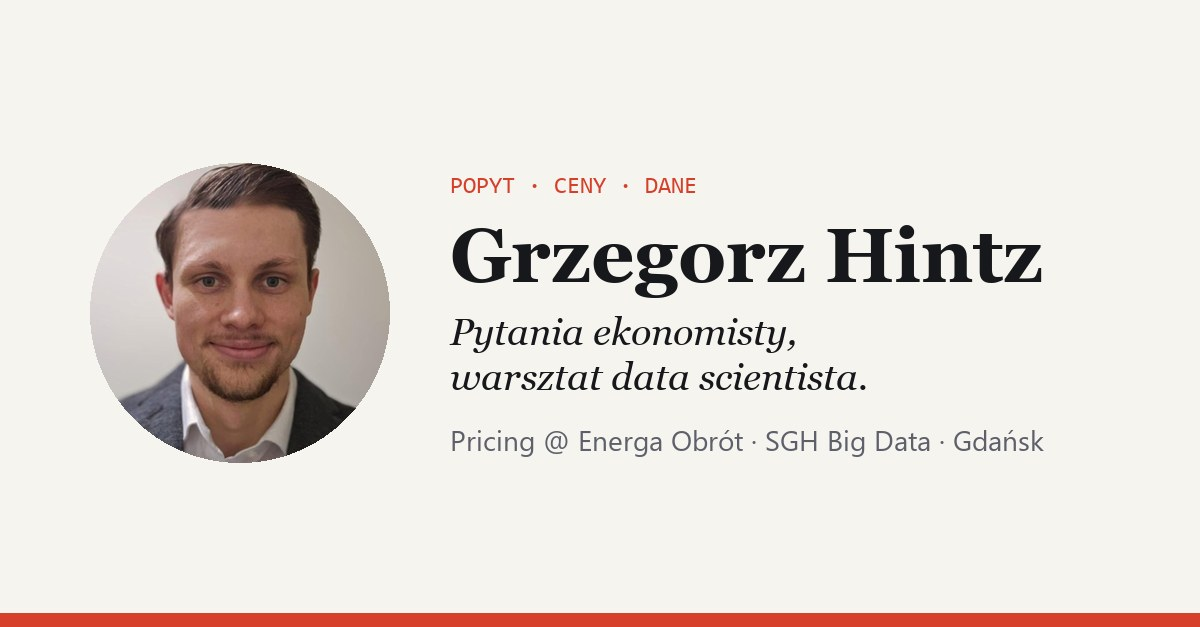
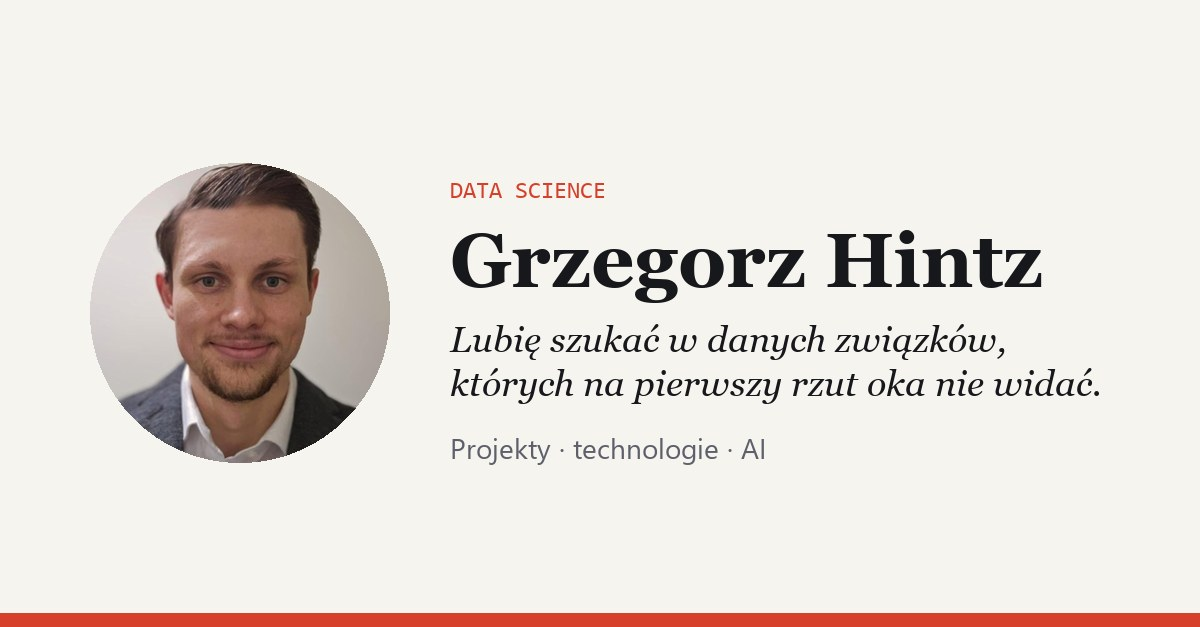
Luźniejszy ton bez kariery, poprawki po detektorze tekstu AI

diff --git a/index.html b/index.html
@@ -3,11 +3,11 @@
 <head>
 <meta charset="utf-8">
 <meta name="viewport" content="width=device-width, initial-scale=1">
-<title>Grzegorz Hintz · popyt, ceny i dane</title>
-<meta name="description" content="Grzegorz Hintz – system pricingowy w Energa Obrót, data science i inżynieria danych (SGH). Buduje działające aplikacje: model zapełnienia SKM, monitor cen energii z TGE, hybrydowy system rekomendacji filmów.">
+<title>Grzegorz Hintz · data science</title>
+<meta name="description" content="Grzegorz Hintz – data science. Moje projekty: model zapełnienia SKM, monitor cen energii z TGE i system rekomendacji filmów. Do tego technologie, których używam.">
 <meta property="og:type" content="profile">
-<meta property="og:title" content="Grzegorz Hintz – pytania ekonomisty, warsztat data scientista">
-<meta property="og:description" content="Czy usiądę w porannym SKM? Kiedy kontrakt na energię dojdzie do mojej ceny? Co obejrzeć wieczorem? Cztery pytania, cztery działające aplikacje.">
+<meta property="og:title" content="Grzegorz Hintz · data science">
+<meta property="og:description" content="Lubię szukać w danych związków, których na pierwszy rzut oka nie widać. Kilka moich projektów i narzędzia, z których korzystam.">
 <meta property="og:url" content="https://astyu27.github.io/STRONA_O_MNIE/">
 <meta property="og:image" content="https://astyu27.github.io/STRONA_O_MNIE/assets/og.jpg">
 <meta name="twitter:card" content="summary_large_image">
@@ -62,9 +62,6 @@ h1{font:650 clamp(42px,7vw,64px)/1.02 var(--serif);letter-spacing:-.02em;margin:
 .btn:hover{border-color:var(--ink)}
 .btn.primary{background:var(--ink);color:var(--bg);border-color:var(--ink)}
 .btn svg{width:17px;height:17px;flex:none}
-.qchips{display:flex;flex-wrap:wrap;gap:8px;margin:22px 0 0;padding:0;list-style:none}
-.qchips a{display:inline-block;text-decoration:none;font:italic 500 16px/1.2 var(--serif);padding:8px 14px;border-radius:999px;background:var(--accent-soft);color:var(--ink);border:1px solid transparent}
-.qchips a:hover{border-color:var(--accent)}
 
 /* sections */
 section{margin-bottom:72px}
@@ -95,25 +92,14 @@ h2{font:650 30px/1.15 var(--serif);margin:0 0 8px;letter-spacing:-.01em}
 .proj.small{padding:22px 24px}
 .proj.small .question{font-size:21px;margin-bottom:10px}
 
-/* timeline */
-.timeline{list-style:none;margin:0;padding:0;position:relative}
-.timeline::before{content:"";position:absolute;left:118px;top:8px;bottom:8px;width:2px;background:var(--line)}
-.timeline li{display:grid;grid-template-columns:100px 1fr;gap:36px;padding:0 0 26px;position:relative}
-.timeline li::before{content:"";position:absolute;left:113px;top:7px;width:12px;height:12px;border-radius:50%;background:var(--bg);border:2px solid var(--muted)}
-.timeline li.now::before{background:var(--accent);border-color:var(--accent)}
-.when{font:500 13px/1.6 var(--mono);color:var(--muted);text-align:right;padding-top:1px}
-.timeline h3{font:600 17px/1.35 var(--sans);margin:0 0 2px}
-.timeline p{margin:0;color:var(--muted);max-width:62ch}
-
-/* how I work */
-.how{background:var(--accent-soft);border-radius:16px;padding:26px 28px;margin-bottom:24px}
-.how p{margin:0;font:500 clamp(18px,2.3vw,21px)/1.45 var(--serif);max-width:62ch}
+/* tools */
 .cols{display:grid;grid-template-columns:1.2fr 1fr;gap:16px}
 .box{background:var(--surface);border:1px solid var(--line);border-radius:14px;padding:22px}
 .box h3{margin:0 0 14px;font:500 12px var(--mono);text-transform:uppercase;letter-spacing:.06em;color:var(--accent)}
 .tools{margin:0;display:grid;grid-template-columns:auto 1fr;gap:8px 16px;font-size:15px}
 .tools dt{color:var(--muted);font-size:14px}
 .tools dd{margin:0}
+.boxp{margin:0 0 14px;font-size:15px}
 .certs{list-style:none;margin:0;padding:0}
 .certs li{padding:10px 0;border-top:1px solid var(--line);font-size:15px;line-height:1.4}
 .certs li:first-child{border-top:0;padding-top:0}
@@ -132,12 +118,7 @@ footer{color:var(--muted);font-size:13px;text-align:center;padding:28px 0 40px}
   .avatar{width:116px;height:116px;margin-top:0}
   .proj{padding:22px 18px}
   .cols{grid-template-columns:1fr}
-  .timeline::before{left:5px}
-  .timeline li{grid-template-columns:1fr;gap:2px;padding-left:28px}
-  .timeline li::before{left:0}
-  .when{text-align:left}
   .contact{padding:32px 20px}
-  .how{padding:22px 20px}
 }
 </style>
 </head>
@@ -155,12 +136,12 @@ footer{color:var(--muted);font-size:13px;text-align:center;padding:28px 0 40px}
 <header class="hero">
   <img class="avatar" src="assets/avatar.jpg" alt="Grzegorz Hintz" width="168" height="168">
   <div>
-    <p class="eyebrow"><span lang="pl">Popyt · ceny · dane</span><span lang="en">Demand · prices · data</span></p>
+    <p class="eyebrow">Data science</p>
     <h1>Grzegorz Hintz</h1>
-    <p class="tagline"><span lang="pl">Pytania ekonomisty, warsztat data scientista.</span><span lang="en">An economist's questions, a data scientist's toolkit.</span></p>
-    <p class="lead" lang="pl">Zawodowo pracuję nad systemem pricingowym w Energa Obrót. Po godzinach buduję aplikacje, które odpowiadają na konkretne pytania: czy usiądę w porannym SKM, kiedy kontrakt na energię dojdzie do mojej ceny, co obejrzeć wieczorem. Każda z nich działa i każdą można kliknąć.</p>
-    <p class="lead" lang="en">By day I work on a pricing system at Energa Obrót, a Polish energy supplier. After hours I build apps that answer concrete questions: will I get a seat on the morning train, when will a power contract hit my price, what should I watch tonight. Every one of them runs, and you can try each one.</p>
-    <p class="meta"><span lang="pl">Specjalista, Wydział Polityki Cenowej · Energa Obrót · SGH Data Engineering – Big Data · Gdańsk</span><span lang="en">Specialist, Pricing Policy Department · Energa Obrót · SGH Data Engineering – Big Data · Gdańsk, Poland</span></p>
+    <p class="tagline"><span lang="pl">Lubię szukać w danych związków, których na pierwszy rzut oka nie widać.</span><span lang="en">I like finding patterns in data that aren't obvious at first glance.</span></p>
+    <p class="lead" lang="pl">Interesuję się data science. Niżej kilka moich projektów i narzędzia, których używam.</p>
+    <p class="lead" lang="en">I'm into data science. Below are a few of my projects and the tools I use.</p>
+    <p class="meta"><span lang="pl">Gdańsk · Energa Obrót · SGH</span><span lang="en">Gdańsk, Poland · Energa Obrót · SGH</span></p>
     <div class="cta">
       <a class="btn primary" href="https://www.linkedin.com/in/grzegorz-hintz-272727272727astyu" target="_blank" rel="noopener">
         <svg viewBox="0 0 24 24" fill="currentColor" aria-hidden="true"><path d="M20.45 20.45h-3.56v-5.57c0-1.33-.02-3.04-1.85-3.04-1.85 0-2.14 1.45-2.14 2.94v5.67H9.35V9h3.41v1.56h.05c.48-.9 1.64-1.85 3.37-1.85 3.6 0 4.27 2.37 4.27 5.46v6.28zM5.34 7.43a2.06 2.06 0 1 1 0-4.13 2.06 2.06 0 0 1 0 4.13zM7.12 20.45H3.56V9h3.56v11.45zM22.22 0H1.77C.79 0 0 .77 0 1.73v20.54C0 23.23.79 24 1.77 24h20.45c.98 0 1.78-.77 1.78-1.73V1.73C24 .77 23.2 0 22.22 0z"/></svg>LinkedIn</a>
@@ -169,45 +150,24 @@ footer{color:var(--muted);font-size:13px;text-align:center;padding:28px 0 40px}
       <a class="btn" href="mailto:grzegorz.hintz27@gmail.com">
         <svg viewBox="0 0 24 24" fill="none" stroke="currentColor" stroke-width="2" aria-hidden="true"><rect x="2" y="4" width="20" height="16" rx="2"/><path d="m2 7 10 6 10-6"/></svg>E-mail</a>
     </div>
-    <ul class="qchips">
-      <li><a href="#skm"><span lang="pl">Czy usiądę w SKM?</span><span lang="en">Will I get a seat?</span></a></li>
-      <li><a href="#tge"><span lang="pl">Kiedy cena dojdzie?</span><span lang="en">When will the price hit?</span></a></li>
-      <li><a href="#film"><span lang="pl">Co obejrzeć?</span><span lang="en">What to watch?</span></a></li>
-      <li><a href="#pcp"><span lang="pl">Gdzie taniej?</span><span lang="en">Where is it cheaper?</span></a></li>
-    </ul>
   </div>
 </header>
 
 <section id="projekty">
-  <h2><span lang="pl">Cztery pytania</span><span lang="en">Four questions</span></h2>
-  <p class="sub"><span lang="pl">Każdy projekt zaczął się od pytania, na które nie było gotowej odpowiedzi. Każdy działa na moim własnym serwerze.</span><span lang="en">Each project started with a question nobody had answered yet. Each one runs on my own home server.</span></p>
+  <h2><span lang="pl">Projekty</span><span lang="en">Projects</span></h2>
+  <p class="sub"><span lang="pl">Każdy zaczął się od pytania, na które sam chciałem znać odpowiedź. Trzy pierwsze można otworzyć i sprawdzić.</span><span lang="en">Each one started with a question I wanted answered. The first three are live, so you can try them.</span></p>
 
   <article class="proj" id="skm">
     <div class="proj-head">
       <h3>Znowu SKM</h3>
       <span class="tag"><span lang="pl">model popytu · działa</span><span lang="en">demand model · live</span></span>
     </div>
-    <p class="question"><span lang="pl">„Czy usiądę w SKM i do którego wagonu wsiąść?”</span><span lang="en">“Will I get a seat on the train, and which car should I board?”</span></p>
-    <p lang="pl">Codziennie jeżdżę SKM z Gdyni Chylonii na gdańskie Przymorze. Nikt nie publikuje, jak bardzo zapełnione są pociągi, więc policzyłem to sam. Zbudowałem od zera model popytu: kto, skąd, dokąd i o której jedzie. Skalibrowałem go na oficjalnych danych UTK za 2025 rok (50,36 mln pasażerów rocznie) i sprawdziłem z niezależnymi pomiarami z Gdańskich Badań Ruchu.</p>
-    <p lang="en">I commute daily on the Tricity rail line (SKM), from Gdynia Chylonia to Gdańsk Przymorze. Nobody publishes how full the trains are, so I worked it out myself. I built a demand model from scratch (who travels, from where, to where and when), calibrated it to official 2025 rail-office data (50.36 million passengers a year) and checked it against independent Gdańsk traffic counts.</p>
-    <div class="result">
-      <div class="win"><b>0,8–1,0</b><span lang="pl">stosunek model : pomiar na kluczowych odcinkach</span><span lang="en">model-to-measured ratio on key segments</span></div>
-    </div>
-    <ul lang="pl">
-      <li>Macierz podróży OD z modelu grawitacyjnego i IPF</li>
-      <li>Szansa na miejsce jako rozkład log-normalny, a nie proste „tak/nie”</li>
-      <li>Na żywo: opóźnienia z GTFS-RT, pogoda (Open-Meteo), kalendarz</li>
-      <li>Uczy się ze zgłoszeń pasażerów, instaluje się na telefonie (PWA)</li>
-    </ul>
-    <ul lang="en">
-      <li>Origin–destination matrix from a gravity model and IPF</li>
-      <li>Seat chance as a log-normal distribution, not a plain yes/no</li>
-      <li>Live inputs: GTFS-RT delays, weather (Open-Meteo), calendar effects</li>
-      <li>Learns from rider reports; installs on a phone as a PWA</li>
-    </ul>
-    <ul class="stack"><li>Python</li><li>NumPy</li><li>GTFS-RT</li><li>FastAPI</li><li>SQLite</li><li>PWA</li></ul>
-    <div class="links"><a href="https://znowuskm.tail37d1bd.ts.net" target="_blank" rel="noopener"><span lang="pl">Sprawdź, czy usiądziesz →</span><span lang="en">Check if you'll get a seat →</span></a></div>
-    <p class="note"><span lang="pl">Działa na moim domowym komputerze, więc czasem bywa offline.</span><span lang="en">Runs on my home PC, so it's occasionally offline.</span></p>
+    <p class="question"><span lang="pl">„Usiądę dziś w SKM-ce?”</span><span lang="en">“Will I get a seat on the train today?”</span></p>
+    <p lang="pl">Codziennie jeżdżę SKM-ką z Chylonii na Przymorze i rano zwykle stoję. Danych o tym, jak zapełnione są pociągi, nikt nie publikuje, więc zrobiłem własny model. Bazuje na danych UTK o liczbie pasażerów na stacjach, a wyniki porównałem z pomiarami z Gdańskich Badań Ruchu. Model daje 0,8–1,0 wartości z pomiarów, więc jest całkiem blisko.</p>
+    <p lang="en">I take the SKM train from Chylonia to Przymorze every day, and in the morning I usually end up standing. Nobody publishes how full the trains are, so I built my own model. It's based on UTK passenger counts per station, and I checked the output against Gdańsk traffic survey counts. It came out at 0.8–1.0 of the measured values, which is pretty close.</p>
+    <ul class="stack"><li>Python</li><li>NumPy</li><li>GTFS-RT</li><li>FastAPI</li><li>SQLite</li></ul>
+    <div class="links"><a href="https://znowuskm.tail37d1bd.ts.net" target="_blank" rel="noopener"><span lang="pl">Zobacz →</span><span lang="en">Take a look →</span></a></div>
+    <p class="note"><span lang="pl">Stoi na moim komputerze w domu, więc czasem jest offline.</span><span lang="en">It runs on my PC at home, so now and then it's offline.</span></p>
   </article>
 
   <article class="proj" id="tge">
@@ -215,25 +175,12 @@ footer{color:var(--muted);font-size:13px;text-align:center;padding:28px 0 40px}
       <h3>TGE Monitor</h3>
       <span class="tag"><span lang="pl">rynek energii · demo</span><span lang="en">energy market · demo</span></span>
     </div>
-    <p class="question"><span lang="pl">„Kiedy kontrakt na energię dojdzie do mojej ceny?”</span><span lang="en">“When will a power contract hit my price?”</span></p>
-    <p lang="pl">Po każdej sesji Towarowej Giełdy Energii aplikacja pobiera dzienne kursy rozliczeniowe (DKR) kontraktów terminowych na energię elektryczną, porównuje je z poziomami zleceń i wysyła e-mail, gdy cena „dojdzie”. Wie, kiedy giełda nie pracuje, i prowadzi archiwum notowań. To projekt prywatny, napędzany tą samą ciekawością cen, która zaprowadziła mnie do pricingu.</p>
-    <p lang="en">After every session on the Polish Power Exchange (TGE), the app collects daily settlement prices for electricity futures, compares them with order levels and sends an e-mail when a price is hit. It knows when the exchange is closed and keeps a full archive of quotes. It's a personal project, driven by the same curiosity about prices that led me into pricing.</p>
-    <div class="result">
-      <div class="win"><b><span lang="pl">po każdej sesji</span><span lang="en">after every session</span></b><span lang="pl">automatycznie, bez ręcznego sprawdzania</span><span lang="en">automatically, no manual checking</span></div>
-    </div>
-    <ul lang="pl">
-      <li>Scraping notowań, archiwum sesji z eksportem do CSV</li>
-      <li>Harmonogram uwzględniający dni sesyjne i święta</li>
-      <li>Alerty e-mail, aplikacja instalowana na telefonie</li>
-    </ul>
-    <ul lang="en">
-      <li>Quote scraping, session archive with CSV export</li>
-      <li>Scheduler aware of trading days and public holidays</li>
-      <li>E-mail alerts; installs on a phone</li>
-    </ul>
-    <ul class="stack"><li>Python</li><li>scraping</li><li>APScheduler</li><li>FastAPI</li><li>SQLite</li><li>Docker</li></ul>
+    <p class="question"><span lang="pl">„Kiedy cena energii dojdzie do mojego poziomu?”</span><span lang="en">“When will the power price reach my level?”</span></p>
+    <p lang="pl">Po każdej sesji na Towarowej Giełdzie Energii aplikacja pobiera ceny rozliczeniowe kontraktów na prąd i porównuje je z moimi poziomami. Jak cena dojdzie do któregoś, dostaję maila. Wie, kiedy giełda jest zamknięta, i zapisuje historię notowań.</p>
+    <p lang="en">After each session on the Polish Power Exchange (TGE), the app pulls settlement prices for power contracts and checks them against my levels. If one gets hit, I get an e-mail. It knows when the exchange is closed and keeps a history of quotes.</p>
+    <ul class="stack"><li>Python</li><li>scraping</li><li>APScheduler</li><li>FastAPI</li><li>Docker</li></ul>
     <div class="links"><a href="https://znowuskm.tail37d1bd.ts.net:10000/" target="_blank" rel="noopener"><span lang="pl">Otwórz demo →</span><span lang="en">Open the demo →</span></a></div>
-    <p class="note"><span lang="pl">Hasło: <b>demo</b>. Prawdziwe notowania TGE, przykładowe zlecenia, bez wysyłki maili.</span><span lang="en">Password: <b>demo</b>. Real TGE quotes, sample orders, e-mails switched off.</span></p>
+    <p class="note"><span lang="pl">Hasło: <b>demo</b>. Prawdziwe notowania, przykładowe zlecenia, maile wyłączone.</span><span lang="en">Password: <b>demo</b>. Real quotes, sample orders, e-mails off.</span></p>
   </article>
 
   <article class="proj" id="film">
@@ -241,119 +188,58 @@ footer{color:var(--muted);font-size:13px;text-align:center;padding:28px 0 40px}
       <h3>Film Recommender</h3>
       <span class="tag"><span lang="pl">projekt dyplomowy SGH · działa</span><span lang="en">SGH capstone · live</span></span>
     </div>
-    <p class="question"><span lang="pl">„Co obejrzeć, skoro podobał mi się ten film?”</span><span lang="en">“What should I watch next, given what I liked?”</span></p>
-    <p lang="pl">Hybrydowy system rekomendacji: filtrowanie kolaboracyjne (ALS w PySpark) połączone z podobieństwem treści. Proporcji 0,6 / 0,4 nie wziąłem z głowy. Dobrałem ją na danych MovieLens (547 widzów, 2512 filmów) z podziałem czasowym, czyli model przewiduje przyszłe seanse, a nie odgaduje przeszłe. Każda propozycja ma uzasadnienie: „Bo podobał Ci się X”.</p>
-    <p lang="en">A hybrid recommender: collaborative filtering (PySpark ALS) blended with content similarity. The 0.6 / 0.4 blend isn't a guess. I tuned it on MovieLens data (547 viewers, 2,512 films) with a time-based split, so the model predicts future viewing instead of re-guessing the past. Every suggestion explains itself: “Because you liked X”.</p>
+    <p class="question"><span lang="pl">„Co by tu dziś obejrzeć?”</span><span lang="en">“What should I watch tonight?”</span></p>
+    <p lang="pl">System rekomendacji filmów, który łączy oceny innych widzów (ALS w Sparku) z podobieństwem samych filmów. Sprawdziłem go na danych MovieLens: w 35% przypadków film, który ktoś później obejrzał, był w jego pierwszej dziesiątce propozycji. Dla porównania „najpopularniejsze” dają 26%, a losowanie 6%.</p>
+    <p lang="en">A movie recommender that mixes other viewers' ratings (ALS in Spark) with how similar the films themselves are. I tested it on MovieLens data: 35% of the time, a film someone watched later was in their top ten. For comparison, “most popular” gets 26% and random picks get 6%.</p>
     <div class="result">
-      <div class="win"><b>35%</b><span lang="pl">hybryda</span><span lang="en">hybrid</span></div>
+      <div class="win"><b>35%</b><span lang="pl">mój model</span><span lang="en">my model</span></div>
       <div><b>26%</b><span lang="pl">najpopularniejsze</span><span lang="en">most popular</span></div>
       <div><b>6%</b><span lang="pl">losowo</span><span lang="en">random</span></div>
-      <div class="cap"><span lang="pl">HitRate@10: u ilu widzów przynajmniej jeden film, który faktycznie obejrzeli później, był w pierwszej dziesiątce propozycji.</span><span lang="en">HitRate@10: share of viewers for whom at least one film they actually watched later was in their top-ten suggestions.</span></div>
     </div>
-    <ul lang="pl">
-      <li>Airflow: osobne DAG-i do pobierania danych, treningu i cotygodniowej ewaluacji</li>
-      <li>FastAPI, PostgreSQL, całość w Docker Compose</li>
-      <li>Pełny produkt: ok. 4200 stron pod SEO, konta z resetem hasła, kopie zapasowe, monitoring z alertami, RODO</li>
-    </ul>
-    <ul lang="en">
-      <li>Airflow: separate DAGs for data ingestion, training and weekly evaluation</li>
-      <li>FastAPI, PostgreSQL, everything in Docker Compose</li>
-      <li>A full product: ~4,200 SEO pages, accounts with password reset, backups, health checks with alerts, GDPR</li>
-    </ul>
-    <ul class="stack"><li>PySpark ALS</li><li>Airflow</li><li>FastAPI</li><li>PostgreSQL</li><li>Docker</li></ul>
-    <div class="links"><a href="https://film-recommender.pl" target="_blank" rel="noopener"><span lang="pl">Znajdź film →</span><span lang="en">Find a film →</span></a></div>
+    <ul class="stack"><li>PySpark</li><li>Airflow</li><li>FastAPI</li><li>PostgreSQL</li><li>Docker</li></ul>
+    <div class="links"><a href="https://film-recommender.pl" target="_blank" rel="noopener"><span lang="pl">Poszukaj filmu →</span><span lang="en">Find a film →</span></a></div>
   </article>
 
   <article class="proj small" id="pcp">
     <div class="proj-head">
-      <h3><span lang="pl">PCP – Porównywarka Cen Produktów</span><span lang="en">PCP – Product Price Comparator</span></h3>
-      <span class="tag"><span lang="pl">projekt zespołowy · studia</span><span lang="en">team project · university</span></span>
+      <h3><span lang="pl">PCP – porównywarka cen</span><span lang="en">PCP – price comparator</span></h3>
+      <span class="tag"><span lang="pl">projekt zespołowy</span><span lang="en">team project</span></span>
     </div>
-    <p class="question"><span lang="pl">„Gdzie jest taniej i czy ta cena naprawdę spadła?”</span><span lang="en">“Where is it cheaper, and did the price really drop?”</span></p>
-    <p lang="pl">Projekt trzyosobowego zespołu na studiach: scraping sklepów internetowych, historia cen, konta użytkowników i powiadomienia o zmianach.</p>
-    <p lang="en">A three-person university project: online store scraping, price history, user accounts and price-change alerts.</p>
+    <p class="question"><span lang="pl">„Gdzie jest taniej?”</span><span lang="en">“Where is it cheaper?”</span></p>
+    <p lang="pl">Projekt z dwoma kolegami ze studiów. Zbieraliśmy ceny ze sklepów internetowych i pokazywaliśmy, jak się zmieniały.</p>
+    <p lang="en">Built with two classmates at university. We collected prices from online stores and showed how they changed over time.</p>
     <div class="links"><a href="https://github.com/ASTYU27/pcp" target="_blank" rel="noopener">GitHub →</a></div>
   </article>
 </section>
 
-<section id="sciezka">
-  <h2><span lang="pl">Ścieżka</span><span lang="en">The path</span></h2>
-  <p class="sub"><span lang="pl">Ekonomia nauczyła mnie pytać o popyt i cenę. Ekonometria – jak to policzyć. Trzy lata w Sii – że za każdą liczbą stoją ludzie i terminy. SGH – jak robić to na dużą skalę.</span><span lang="en">Economics taught me to ask about demand and price. Econometrics taught me how to measure them. Three years at Sii taught me that every number has people and deadlines behind it. SGH taught me how to do it at scale.</span></p>
-  <ol class="timeline">
-    <li class="now">
-      <div class="when"><span lang="pl">2025 – dziś</span><span lang="en">2025 – now</span></div>
-      <div>
-        <h3>Energa Obrót</h3>
-        <p lang="pl">Specjalista w Wydziale Polityki Cenowej. Pracuję nad systemem pricingowym: ceny energii od strony spółki obrotu.</p>
-        <p lang="en">Specialist, Pricing Policy Department. I work on a pricing system: energy prices, seen from the supplier's side.</p>
-      </div>
-    </li>
-    <li>
-      <div class="when">2025 – 2026</div>
-      <div>
-        <h3><span lang="pl">SGH Szkoła Główna Handlowa</span><span lang="en">SGH Warsaw School of Economics</span></h3>
-        <p lang="pl">Studia podyplomowe Data Engineering – Big Data, ukończone. Projekt dyplomowy: Film Recommender.</p>
-        <p lang="en">Postgraduate studies in Data Engineering – Big Data, completed. Capstone project: Film Recommender.</p>
-      </div>
-    </li>
-    <li>
-      <div class="when">2021 – 2025</div>
-      <div>
-        <h3>Sii Poland</h3>
-        <p lang="pl">Najpierw staż w rekrutacji (Embedded Competency Center), potem trzy lata jako Sales and Delivery Operations Specialist. Kontakt z kandydatami i pracownikami, wsparcie procesów rekrutacji, praca z ludźmi na co dzień.</p>
-        <p lang="en">Started as a recruitment intern (Embedded Competency Center), then three years as a Sales and Delivery Operations Specialist: working with candidates and employees, supporting recruitment processes, dealing with people every day.</p>
-      </div>
-    </li>
-    <li>
-      <div class="when">2022 – 2024</div>
-      <div>
-        <h3><span lang="pl">Uniwersytet Gdański</span><span lang="en">University of Gdańsk</span></h3>
-        <p lang="pl">Magister, Informatyka i Ekonometria, równolegle z pracą w Sii.</p>
-        <p lang="en">MSc in Computer Science and Econometrics, alongside my job at Sii.</p>
-      </div>
-    </li>
-    <li>
-      <div class="when">2019 – 2022</div>
-      <div>
-        <h3><span lang="pl">Uniwersytet Gdański</span><span lang="en">University of Gdańsk</span></h3>
-        <p lang="pl">Licencjat z ekonomii. Po drodze Studencki Klub Biznesu (2020–2021) i AIESEC Polska (2021).</p>
-        <p lang="en">BA in Economics. Along the way: Student Business Club (2020–2021) and AIESEC Poland (2021).</p>
-      </div>
-    </li>
-  </ol>
-</section>
-
-<section id="jak-pracuje">
-  <h2><span lang="pl">Jak pracuję</span><span lang="en">How I work</span></h2>
-  <div class="how">
-    <p lang="pl">Pytanie, dane, model i ocena wyniku są po mojej stronie. Agent AI do kodowania odpowiada za tempo. Tak powstała większość projektów z tej strony i właśnie dlatego jedna osoba może po godzinach zbudować działający model popytu dla całej linii kolejowej. Agentów AI nie tylko używam, ale też uczę się je budować.</p>
-    <p lang="en">I own the question, the data, the model and the evaluation. An AI coding agent owns the speed. That's how most projects on this page were built, and it's why one person can put together a working demand model for an entire rail line in their spare time. I don't just use AI agents; I'm learning to build them.</p>
-  </div>
+<section id="technologie">
+  <h2><span lang="pl">Czym pracuję</span><span lang="en">What I use</span></h2>
   <div class="cols">
     <div class="box">
-      <h3><span lang="pl">Narzędzia</span><span lang="en">Toolkit</span></h3>
+      <h3><span lang="pl">Technologie</span><span lang="en">Tools</span></h3>
       <dl class="tools">
-        <dt><span lang="pl">Analiza</span><span lang="en">Analysis</span></dt><dd><span lang="pl">Python · SQL · R · Excel i Power Query · Power BI</span><span lang="en">Python · SQL · R · Excel &amp; Power Query · Power BI</span></dd>
-        <dt><span lang="pl">Dane</span><span lang="en">Data</span></dt><dd>PySpark · Airflow · FastAPI · PostgreSQL · SQLite</dd>
-        <dt><span lang="pl">Wdrożenia</span><span lang="en">Deployment</span></dt><dd><span lang="pl">Linux · Docker · Git/GitHub · domowy serwer z Cloudflare Tunnel i Tailscale</span><span lang="en">Linux · Docker · Git/GitHub · home server with Cloudflare Tunnel and Tailscale</span></dd>
-        <dt><span lang="pl">Zespół</span><span lang="en">Teamwork</span></dt><dd><span lang="pl">JIRA · Scrum · angielski</span><span lang="en">JIRA · Scrum · English</span></dd>
+        <dt><span lang="pl">Analiza</span><span lang="en">Analysis</span></dt><dd>Python · SQL · R · Excel · Power Query · Power BI</dd>
+        <dt><span lang="pl">Dane</span><span lang="en">Data</span></dt><dd>PySpark · Airflow · PostgreSQL · SQLite</dd>
+        <dt><span lang="pl">Aplikacje</span><span lang="en">Apps</span></dt><dd>FastAPI · Docker · Linux · Git</dd>
       </dl>
     </div>
     <div class="box">
-      <h3><span lang="pl">Certyfikaty</span><span lang="en">Certifications</span></h3>
+      <h3>AI</h3>
+      <p class="boxp" lang="pl">Ostatnio dużo siedzę w agentach AI. Używam ich przy własnych projektach i uczę się, jak je budować.</p>
+      <p class="boxp" lang="en">Lately I've been spending a lot of time with AI agents. I use them on my own projects and I'm learning how to build them.</p>
       <ul class="certs">
         <li>Microsoft Applied Skills: Enhance agents with autonomous capabilities<small>Microsoft · 2026</small></li>
         <li><span lang="pl">Umiejętności Jutra AI 3.0</span><span lang="en">“Skills of Tomorrow” AI 3.0</span><small>Google · 2026</small></li>
-        <li><span lang="pl">MS Excel: makra, Power Query, Power BI</span><span lang="en">MS Excel: macros, Power Query, Power BI</span><small>iNauka.pl · 2022</small></li>
+        <li><span lang="pl">Data Engineering – Big Data, studia podyplomowe</span><span lang="en">Data Engineering – Big Data, postgraduate studies</span><small>SGH · 2026</small></li>
       </ul>
     </div>
   </div>
 </section>
 
 <section class="contact">
-  <h2><span lang="pl">Kontakt</span><span lang="en">Get in touch</span></h2>
-  <p lang="pl">Jeśli któreś z tych pytań Cię zaciekawiło – albo masz lepsze – napisz.</p>
-  <p lang="en">If one of these questions caught your eye, or you've got a better one, drop me a line.</p>
+  <h2><span lang="pl">Kontakt</span><span lang="en">Contact</span></h2>
+  <p lang="pl">Najłatwiej złapać mnie mailowo albo na LinkedInie.</p>
+  <p lang="en">Easiest way to reach me is e-mail or LinkedIn.</p>
   <div class="cta">
     <a class="btn" href="mailto:grzegorz.hintz27@gmail.com">grzegorz.hintz27@gmail.com</a>
     <a class="btn" href="https://www.linkedin.com/in/grzegorz-hintz-272727272727astyu" target="_blank" rel="noopener">LinkedIn</a>
@@ -361,14 +247,14 @@ footer{color:var(--muted);font-size:13px;text-align:center;padding:28px 0 40px}
   </div>
 </section>
 
-<footer><span lang="pl">© 2026 Grzegorz Hintz · Gdańsk. Projekty z tej strony działają na moim własnym sprzęcie.</span><span lang="en">© 2026 Grzegorz Hintz · Gdańsk. The projects on this page run on my own hardware.</span></footer>
+<footer>© 2026 Grzegorz Hintz</footer>
 </div>
 
 <script>
 (function(){
   var root=document.documentElement, tb=document.getElementById('themeBtn'),
       segs=document.querySelectorAll('[data-set-lang]');
-  var titles={pl:'Grzegorz Hintz · popyt, ceny i dane',en:'Grzegorz Hintz · demand, prices and data'};
+  var titles={pl:'Grzegorz Hintz · data science',en:'Grzegorz Hintz · data science'};
   function get(k){try{return localStorage.getItem(k)}catch(e){return null}}
   function set(k,v){try{localStorage.setItem(k,v)}catch(e){}}
   var q=new URLSearchParams(location.search).get('lang');

diff --git a/tests/test_site.py b/tests/test_site.py
@@ -175,26 +175,17 @@ def test_jest_ai_agenci_i_szkolenia(page, lang):
 
 
 def test_kotwice_prowadza_do_istniejacych_sekcji(page):
-    anchors = [l[1:] for l in page.links if l.startswith("#")]
-    assert len(anchors) >= 4
-    for a in anchors:
+    for a in (l[1:] for l in page.links if l.startswith("#")):
         assert a in page.ids, f"Brak sekcji #{a}"
 
 
 @pytest.mark.parametrize("lang", ["pl", "en"])
-def test_uczciwy_tytul_i_sciezka(page, lang):
+def test_luzny_ton_bez_kariery_i_bez_naciaganego_tytulu(page, lang):
     text = visible_text(page, lang)
-    # oficjalne stanowisko, nie "Data Scientist w Enerdze"
-    assert ("Wydział Polityki Cenowej" in text) or ("Pricing Policy Department" in text)
+    assert "data science" in text.lower()
     assert "Data Scientist" not in text
-    for needle in ("Sii", "Uniwersytet Gdański" if lang == "pl" else "University of Gdańsk",
-                   "Microsoft", "Big Data"):
-        assert needle in text, f"Brak '{needle}' w wersji {lang}"
-
-
-def test_sgh_ukonczone_z_projektem_filmowym(page):
-    text = visible_text(page, "pl")
-    assert "ukończone" in text and "Projekt dyplomowy: Film Recommender" in text
+    for career in ("Sii", "Wydział Polityki Cenowej", "Pricing Policy", "Uniwersytet Gdański", "University of Gdańsk"):
+        assert career not in text, f"Wątek kariery wrócił: {career}"
 
 
 # --- sieć ------------------------------------------------------------------
